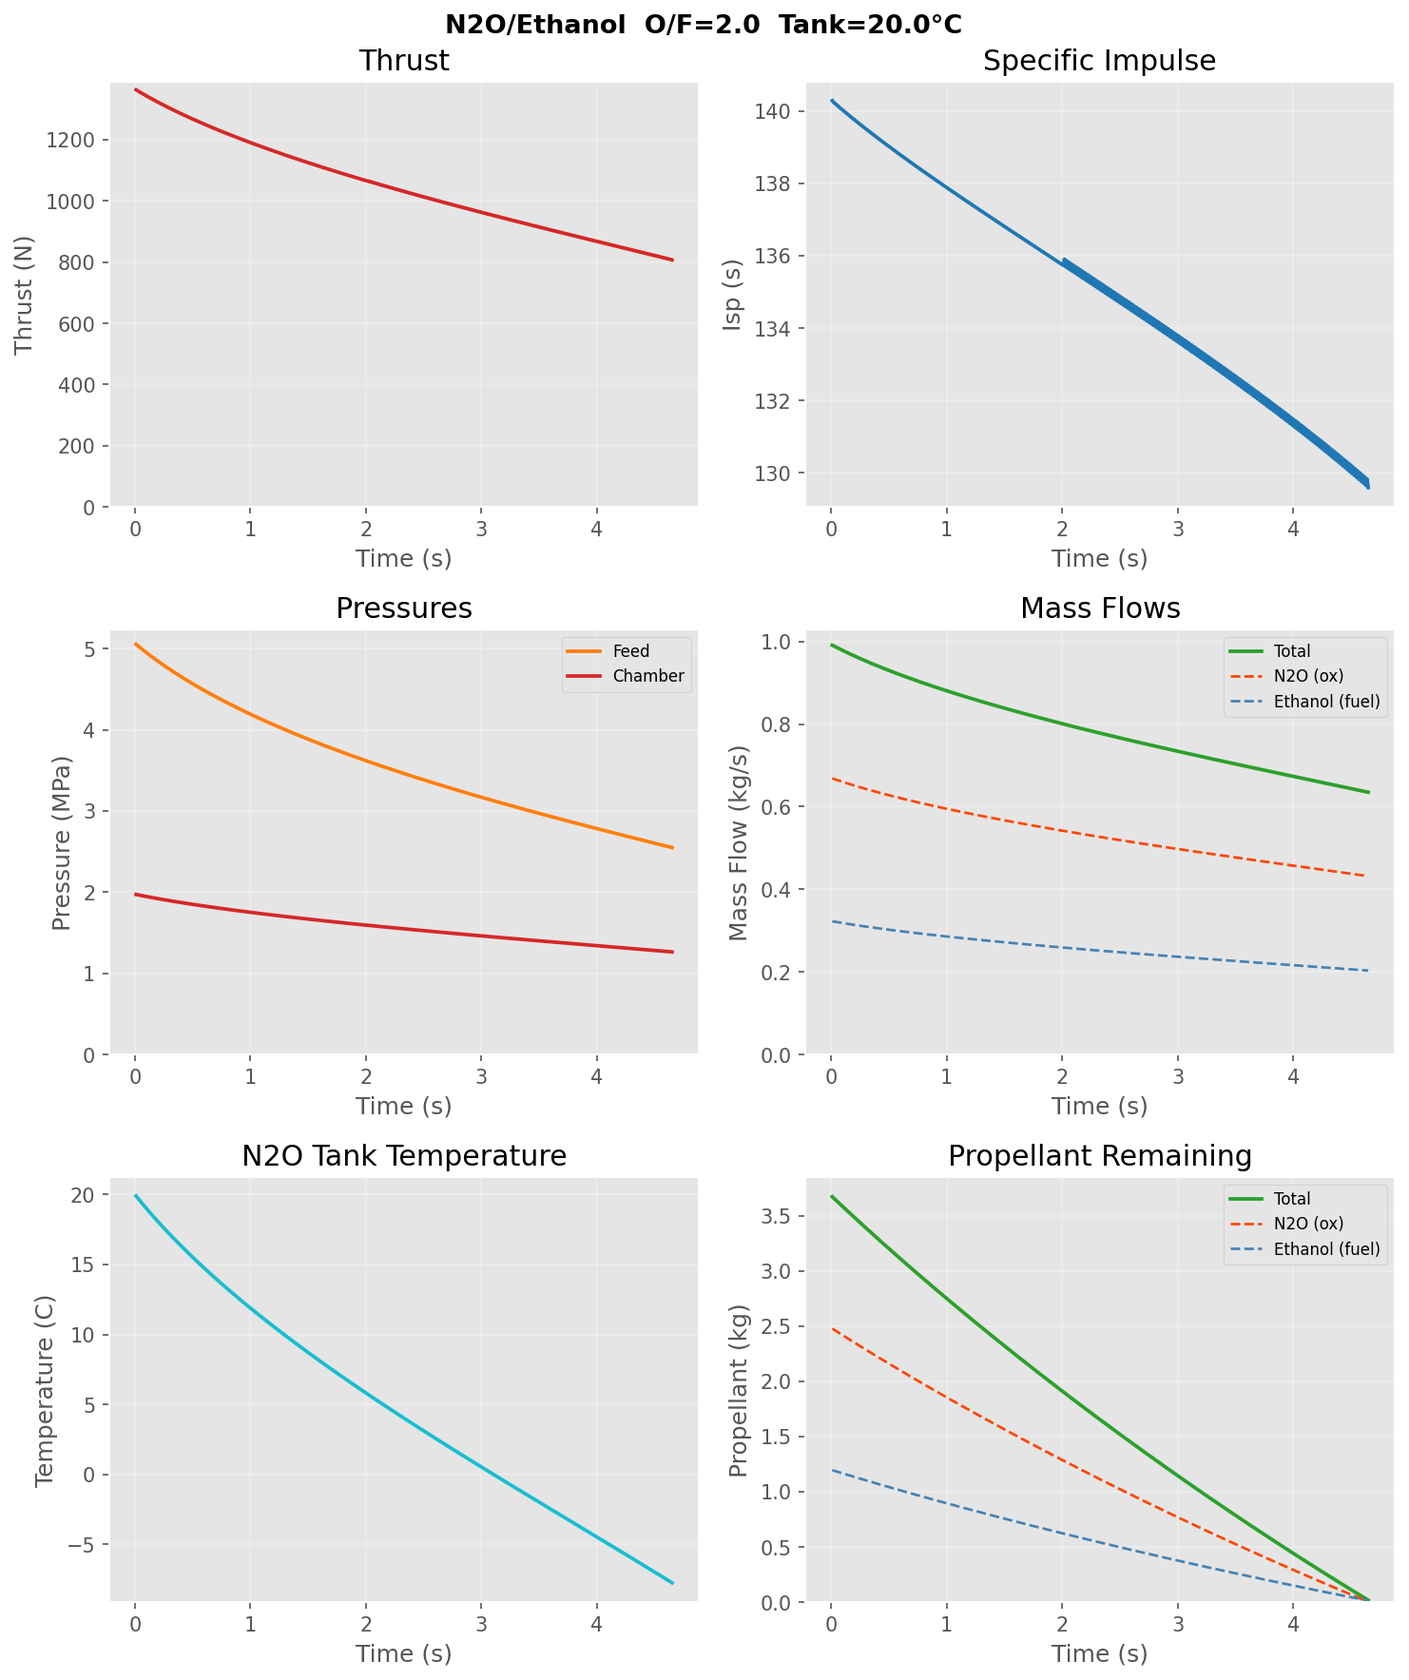
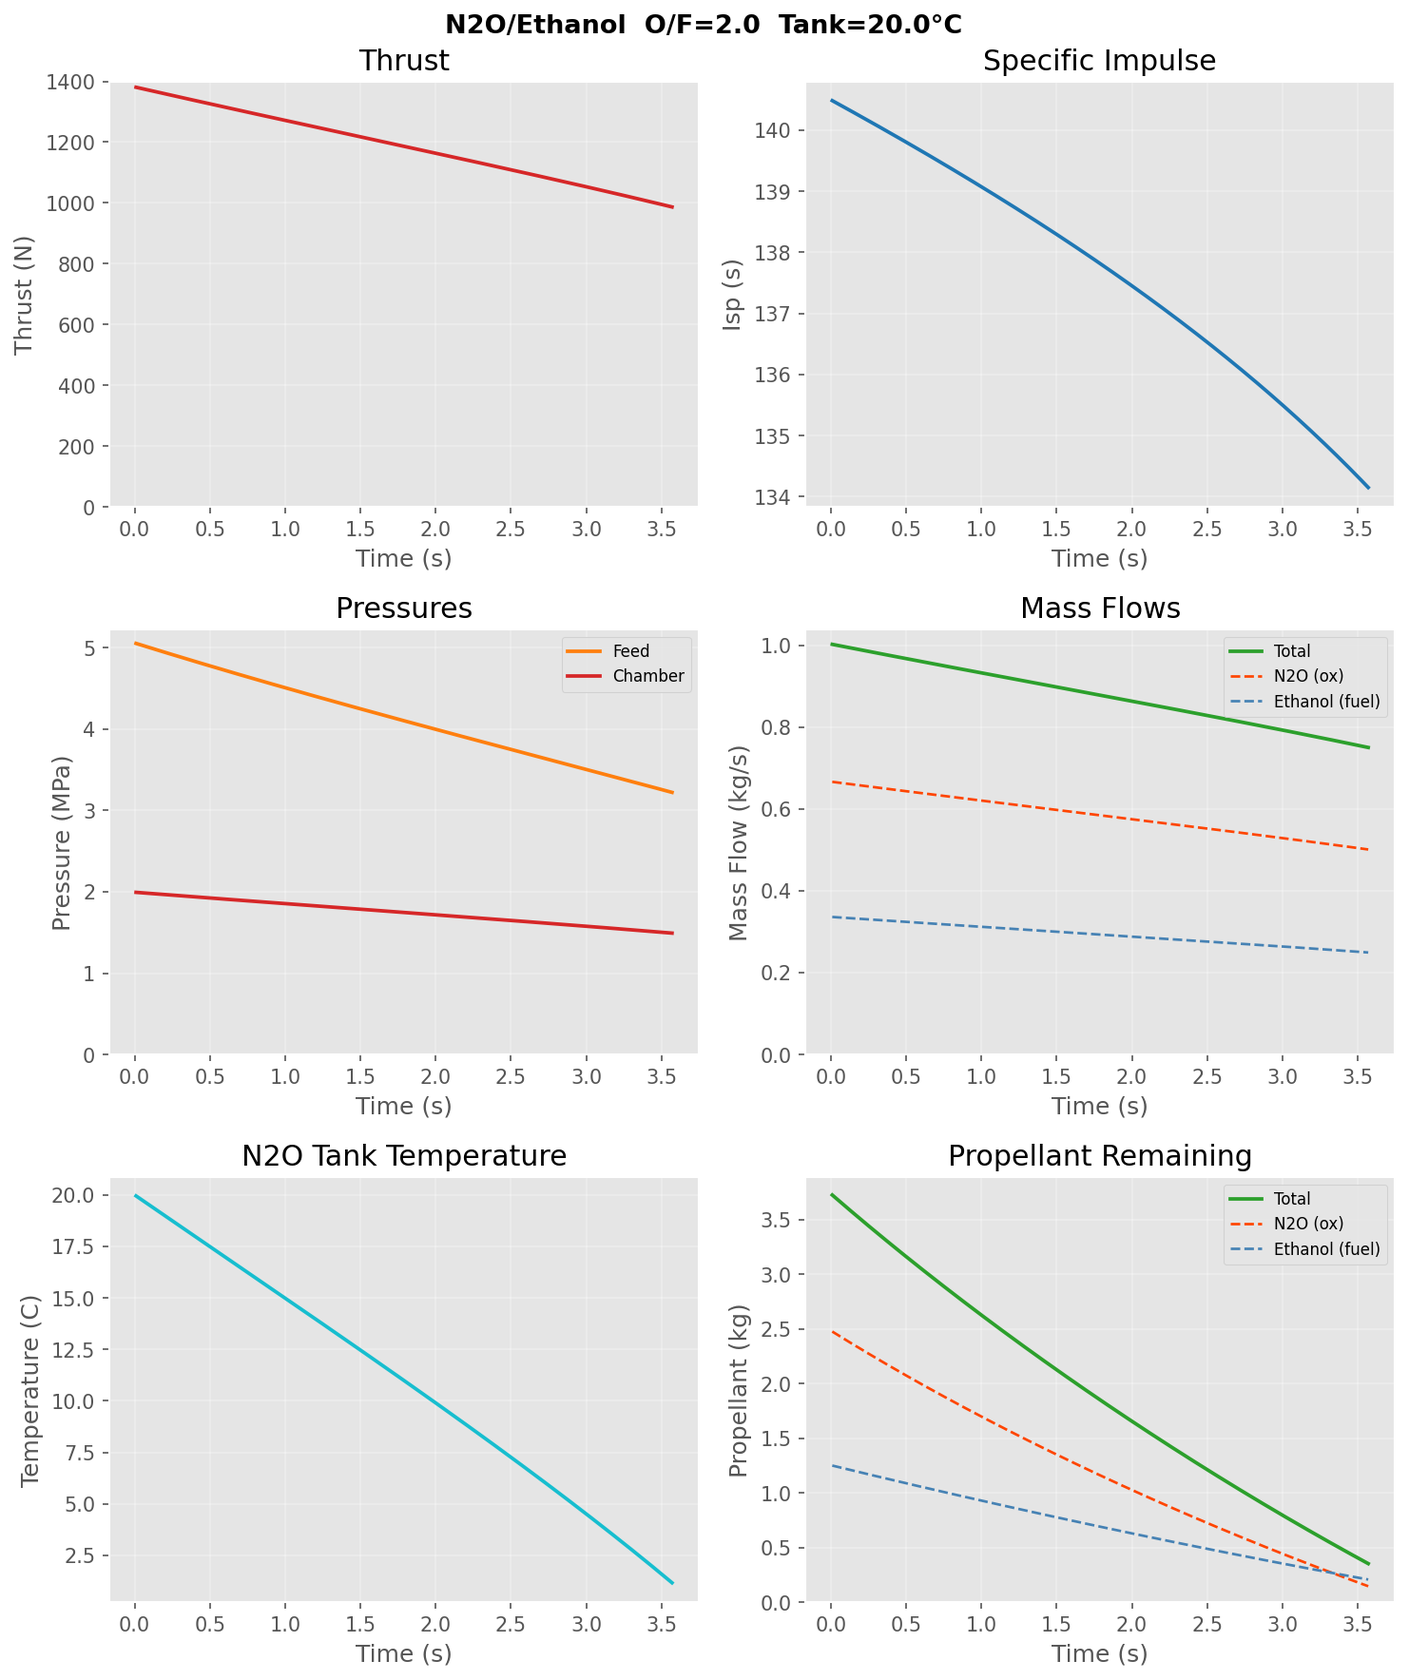
Fixed Isp oscillation, updated gitignore

diff --git a/Simulation/PistonLiquidRocket.py b/Simulation/PistonLiquidRocket.py
@@ -109,10 +109,24 @@ class N2OThermoTable:
             float(np.interp(T, Tv, self.p_sat)),
         )
 
-    def find_T_for_U(self, U_target: float, m_liq: float, volume: float) -> float:
-        V_vap = np.maximum(0.0, volume - m_liq / self.rho_liq)
-        U_arr = m_liq * self.u_liq + self.rho_vap * V_vap * self.u_vap
-        # np.interp clamps to boundary values — prevents out-of-range extrapolation
+    def find_T_for_U(self, U_target: float, M_total: float, volume: float) -> float:
+        """
+        Find T such that total internal energy = U_target.
+        M_total is the total remaining mass (liquid + vapour) in the tank.
+
+        Uses the same two-phase equilibrium split as __init__ — liquid and vapour
+        masses both vary self-consistently with T, so U(T) is guaranteed monotone.
+        Holding m_liq fixed instead (prior approach) made U(T) non-monotone at
+        low liquid mass, causing interpolation artefacts.
+        """
+        # Self-consistent phase split at each table temperature:
+        #   m_liq/rho_liq + m_vap/rho_vap = volume  and  m_liq + m_vap = M_total
+        # → m_liq = (volume - M_total/rho_vap) / (1/rho_liq - 1/rho_vap)
+        denom   = 1.0 / self.rho_liq - 1.0 / self.rho_vap   # → 0 near critical pt
+        safe_d  = np.where(np.abs(denom) > 1e-9, denom, 1e-9)
+        m_liq_a = np.clip((volume - M_total / self.rho_vap) / safe_d, 0.0, M_total)
+        m_vap_a = M_total - m_liq_a
+        U_arr   = m_liq_a * self.u_liq + m_vap_a * self.u_vap
         return float(np.interp(U_target, U_arr, self.T))
 
 
@@ -302,11 +316,11 @@ class EngineConfig:
     # Injector geometry  (A values = None means auto-sized from design O/F and target dP)
     # Cd values match HalfCatSim hardware; areas solved analytically to hit
     # Pc=218.6 psi and O/F=2.77 at 283.15 K N2O with 15 psi piston loss.
-    cd_ox        : float          = 0.40    # discharge coefficient, N2O orifice(s)
-    cd_fuel      : float          = 0.55    # discharge coefficient, fuel orifice(s)
+    cd_ox        : float           = 0.5    # discharge coefficient, N2O orifice(s)
+    cd_fuel      : float           = 0.5    # discharge coefficient, fuel orifice(s)
     A_inj_ox     : Optional[float] = None   # total N2O injector area [m^2]
     A_inj_fuel   : Optional[float] = None   # total fuel injector area [m^2]
-    inj_target_dp: float          = 0.6     # dP/P_feed fraction used for auto-sizing
+    inj_target_dp: float           = 0.6     # dP/P_feed fraction used for auto-sizing
 
     # Oxidiser (N2O) feed line  — pipe geometry + in-line valve
     ox_line_id       : float = 7.94e-3  # inner diameter [m];  0 = no feed-line loss
@@ -316,7 +330,7 @@ class EngineConfig:
     ox_valve_diam    : float = 0.01     # valve bore diameter [m]
 
     # Fuel feed line  — pipe geometry + in-line valve
-    fuel_line_id       : float = 5.715e-3
+    fuel_line_id       : float = 7.94e-3
     fuel_line_length   : float = 1.219
     fuel_line_roughness: float = 1.5e-6
     fuel_valve_Cd      : float = 0.8
@@ -377,6 +391,8 @@ class EngineConfig:
         _fuel_A = np.pi / 4.0 * self.fuel_tank_diam ** 2
         self.ox_tank_length   = self.ox_tank_volume   / _ox_A
         self.fuel_tank_length = self.fuel_tank_volume / _fuel_A
+        # Tube length for liquid N2O only — ullage lives inside the piston, not in the tube
+        self.ox_tube_length   = self.ox_tank_volume * (1.0 - self.ox_ullage) / _ox_A
 
         # Characteristic chamber length L* = V_c / A_t
         # V_c = cylindrical section + frustum of convergent cone
@@ -567,15 +583,21 @@ class N2OSelfPressTank:
             return
         tbl = self._tbl
         _, _, u_liq, u_vap, h_liq, _ = tbl.at(self.T)
-        U_target  = self.m_liq * u_liq + self.m_vap * u_vap - h_liq * dm
-        m_liq_new = self.m_liq - dm
+        U_target = self.m_liq * u_liq + self.m_vap * u_vap - h_liq * dm
+        M_total  = self.m_liq + self.m_vap - dm   # total mass remaining (conserved)
 
-        T_new       = tbl.find_T_for_U(U_target, m_liq_new, self.volume)
+        T_new       = tbl.find_T_for_U(U_target, M_total, self.volume)
         rho_liq_new = float(np.interp(T_new, tbl.T, tbl.rho_liq))
         rho_vap_new = float(np.interp(T_new, tbl.T, tbl.rho_vap))
+        denom_new = 1.0 / rho_liq_new - 1.0 / rho_vap_new
+        if abs(denom_new) > 1e-9:
+            m_liq_new = (self.volume - M_total / rho_vap_new) / denom_new
+        else:
+            m_liq_new = M_total / 2.0   # near critical point
+        m_liq_new  = max(0.0, min(M_total, m_liq_new))
         self.T     = T_new
         self.m_liq = m_liq_new
-        self.m_vap = rho_vap_new * (self.volume - m_liq_new / rho_liq_new)
+        self.m_vap = M_total - m_liq_new
 
 
 # ═══════════════════════════════════════════════════════════════════════════════
@@ -811,7 +833,7 @@ class PistonEngine:
             r = (self._K_ox   * np.sqrt(dp_ox)
                  + self._K_fuel * np.sqrt(dp_fuel)
                  - self._k_mdot * p_c)
-            if abs(r) < 1e-3:
+            if abs(r) < 1e-6:
                 break
             drdp = self._k_mdot
             if dp_ox   > 0: drdp += self._K_ox   * 0.5 / np.sqrt(dp_ox)
@@ -821,7 +843,7 @@ class PistonEngine:
         dp_fuel = max(0.0, p_feed_fuel - p_c)
         r_final = (self._K_ox * np.sqrt(dp_ox) + self._K_fuel * np.sqrt(dp_fuel)
                    - self._k_mdot * p_c)
-        if abs(r_final) >= 1e-2:
+        if abs(r_final) >= 1e-4:
             return None
         self._p_c_prev = p_c
         return float(p_c)
@@ -951,7 +973,7 @@ def print_config(cfg: EngineConfig, eng: PistonEngine):
     print(f"    Piston start         : {L_piston_0*1e3:.0f} mm from ox. bulkhead")
     print(f"    Volume / diameter    : {cfg.ox_tank_volume*1e3:.2f} L  /  {cfg.ox_tank_diam*1e3:.0f} mm"
           f"  (of {cfg.tank_volume*1e3:.2f} L total)")
-    print(f"    Length               : {cfg.ox_tank_length*1e3:.0f} mm")
+    print(f"    Tube length (liquid) : {cfg.ox_tube_length*1e3:.0f} mm  (ullage in piston)")
     print(f"    Thermal model        : adiabatic (T drops as liquid drains)")
     print(f"  {cfg.fuel.name} fuel tank  (piston)")
     print(f"    Density              : {cfg.fuel.liquid_density():.1f} kg/m^3"

diff --git a/Simulation/tank_structural.py b/Simulation/tank_structural.py
@@ -10,6 +10,43 @@ PLOT_DIR = os.path.join(os.path.dirname(os.path.abspath(__file__)),
 P           = 7.03e6    # Internal pressure, Pa
 tank_id     = 95.2e-3   # Tank inner diameter, m
 tank_od     = 101.6e-3  # Tank outer diameter, m
+
+# ── Tank sizing ────────────────────────────────────────────────────────────────
+of_ratio      = 2.0       # Oxidiser/fuel mass ratio
+n2o_fill_rho  = 790.0     # N2O liquid density at fill temperature, kg/m³ (~25°C)
+ipa_rho       = 786.0     # IPA liquid density, kg/m³
+ullage_frac   = 0.05      # Ullage fraction (vapour volume / total ox section volume)
+ullage_d      = 78.0e-3   # Piston ullage cavity diameter, m  (ullage is inside piston)
+V_tank_total  = 5.0e-3    # Total tank volume (ox section incl. ullage + fuel section), m³
+
+# Split total volume into ox section (liquid + ullage) and fuel section.
+# rho_ox_avg weights liquid and vapour by ullage fraction.
+n2o_vap_rho   = 50.0      # N2O vapour density at ~25°C, kg/m³ (approximate)
+rho_ox_avg    = n2o_fill_rho * (1.0 - ullage_frac) + n2o_vap_rho * ullage_frac
+k             = rho_ox_avg / (of_ratio * ipa_rho)   # ox_vol / fuel_vol ratio
+V_ox_section  = V_tank_total / (1.0 + k)             # includes ullage
+V_fuel_section = V_tank_total - V_ox_section
+
+# Liquid volumes and tube lengths — ullage does NOT add to tube length
+V_ox_liq    = V_ox_section  * (1.0 - ullage_frac)
+V_ullage    = V_ox_section  * ullage_frac
+A_bore      = np.pi / 4 * tank_id**2
+L_ox_tube   = V_ox_liq      / A_bore                 # liquid N2O only
+L_fuel_tube = V_fuel_section / A_bore
+
+# Piston ullage cavity depth (78 mm bore inside piston)
+L_piston_ullage = V_ullage / (np.pi / 4 * ullage_d**2)
+
+print("--- Tank Sizing -------------------------------------------------------")
+print(f"N2O fill density     : {n2o_fill_rho:.0f} kg/m^3")
+print(f"Ox section volume    : {V_ox_section*1e3:.3f} L  (liquid {V_ox_liq*1e3:.3f} L  +  ullage {V_ullage*1e6:.0f} cm^3)")
+print(f"Fuel section volume  : {V_fuel_section*1e3:.3f} L")
+print(f"Ox tube length       : {L_ox_tube*1e3:.1f} mm  (liquid only, ullage in piston)")
+print(f"Fuel tube length     : {L_fuel_tube*1e3:.1f} mm")
+print(f"Ox/fuel tube ratio   : {L_ox_tube/L_fuel_tube:.3f}")
+print(f"Piston ullage cavity : {L_piston_ullage*1e3:.1f} mm deep x {ullage_d*1e3:.0f} mm dia")
+print("----------------------------------------------------------------------")
+print()
 n_bolts     = 8         # Number of radial retaining bolts
 bolt_d      = 8.0e-3    # Bolt major diameter (bearing, shear), m
 hole_d      = 9.0e-3    # Clearance hole diameter (tearout, net section), m
@@ -70,7 +107,7 @@ print(f"  Bolt shear SF      : {SF_shear_actual:.2f}  ({'OK' if SF_shear_actual 
 print(f"  Net section SF     : {SF_net_actual:.2f}  ({'OK' if SF_net_actual >= SF else 'FAIL'})  (VM={sigma_vm_net*1e-6:.1f} MPa, axial={sigma_net*1e-6:.1f}, hoop={sigma_hoop*1e-6:.1f})")
 print(f"  Bearing SF         : {SF_bearing_actual:.2f}  ({'OK' if SF_bearing_actual >= SF else 'FAIL'})  (sigma={sigma_bearing*1e-6:.1f} MPa)")
 
-# ── Plot ───────────────────────────────────────────────────────────────────────
+# ── Plot ----------------------------------------------------------------------─
 plt.figure()
 plt.title("Radial Bolt Tearout vs Axial Edge Distance")
 plt.plot(es * 1e3, F_tearout, label="Wall tearout strength", color='tab:blue', lw=2)

diff --git a/Documentation Vault/02-Design/01-Propulsion System/02-Propellant Tank.md b/Documentation Vault/02-Design/01-Propulsion System/02-Propellant Tank.md
@@ -33,23 +33,23 @@ A 101.6 mm OD × 3.2 mm wall tube is standard 4" aluminium stock — no machinin
 
 ### Bolt Retention
 
-The bulkhead is retained by **10× M6 Grade 12.9** radial bolts through the tank wall. Clearance hole Ø6.6 mm, axial edge distance e = 12 mm.
+The bulkhead is retained by **8× M8 Grade 12.9** radial bolts through the tank wall. Clearance hole Ø9.0 mm, axial edge distance e = 14 mm.
 
 Material properties: τ_Y = σ_Y/√3 = 159.4 MPa (wall shear yield), σ_{br,Y} = 386 MPa (bearing yield, ≈1.4 × σ_Y per MIL-HDBK-5), σ_{Y,bolt} = 1080 MPa.
 
 Total axial pressure load and load per bolt:
 
-$$F = \frac{\pi}{4} D_i^2 P = \frac{\pi}{4}(95.2)^2 \times 7.03 = 50{,}040\ \text{N}, \qquad F_{bolt} = \frac{F}{N} = \frac{50{,}040}{10} = 5{,}004\ \text{N}$$
+$$F = \frac{\pi}{4} D_i^2 P = \frac{\pi}{4}(95.2)^2 \times 7.03 = 50{,}040\ \text{N}, \qquad F_{bolt} = \frac{F}{N} = \frac{50{,}040}{8} = 6{,}255\ \text{N}$$
 
 #### Tearout
 
 Shear-out of tank wall axially past the bolt hole (two shear planes per bolt):
 
-$$F_{tearout} = \tau_Y \cdot 2t \left(e - \frac{d_h}{2}\right) = 159.4 \times 2(3.2)\left(12 - 3.3\right) = 8{,}862\ \text{N}$$
+$$F_{tearout} = \tau_Y \cdot 2t \left(e - \frac{d_h}{2}\right) = 159.4 \times 2(3.2)\left(14 - 4.5\right) = 9{,}689\ \text{N}$$
 
-$$SF_{tearout} = \frac{F_{tearout}}{F_{bolt}} = \frac{8{,}862}{5{,}004} = \mathbf{1.77 \ ✓}$$
+$$SF_{tearout} = \frac{F_{tearout}}{F_{bolt}} = \frac{9{,}689}{6{,}255} = \mathbf{1.55 \ ✓}$$
 
-Minimum edge distance at SF = 1.5: $e_{min} = d_h/2 + F_{bolt} \cdot SF\,/\,(2t\tau_Y) = 10.7\ \text{mm}$
+Minimum edge distance at SF = 1.5: $e_{min} = d_h/2 + F_{bolt} \cdot SF\,/\,(2t\tau_Y) = 13.7\ \text{mm}$
 
 ![[bolt_tearout.png]]
 
@@ -57,49 +57,53 @@ Minimum edge distance at SF = 1.5: $e_{min} = d_h/2 + F_{bolt} \cdot SF\,/\,(2t\
 
 Single shear across bolt cross-section at the inner wall surface:
 
-$$F_{shear} = \frac{\sigma_{Y,bolt}}{\sqrt{3}} \cdot \frac{\pi}{4} d^2 = 623.5 \times \frac{\pi}{4}(6)^2 = 17{,}639\ \text{N}$$
+$$F_{shear} = \frac{\sigma_{Y,bolt}}{\sqrt{3}} \cdot \frac{\pi}{4} d^2 = 623.5 \times \frac{\pi}{4}(8)^2 = 31{,}344\ \text{N}$$
 
-$$SF_{shear} = \frac{17{,}639}{5{,}004} = \mathbf{3.52 \ ✓}$$
+$$SF_{shear} = \frac{31{,}344}{6{,}255} = \mathbf{5.01 \ ✓}$$
 
 #### Net Section Tensile Failure
 
 Tensile failure of the tank wall between bolt holes. The bolt holes reduce the net cross-sectional area at the failure plane (mean circumference π(Do − t)). Hoop stress from internal pressure acts simultaneously and is combined via Von Mises.
 
-$$\sigma_{axial} = \frac{\frac{\pi}{4} D_i^2 P}{\left[\pi(D_o - t) - N d_h\right] t} = \frac{50{,}040}{\left[\pi(98.4) - 10(6.6)\right] \times 3.2} = 64.3\ \text{MPa}$$
+$$\sigma_{axial} = \frac{\frac{\pi}{4} D_i^2 P}{\left[\pi(D_o - t) - N d_h\right] t} = \frac{50{,}040}{\left[\pi(98.4) - 8(9.0)\right] \times 3.2} = 65.9\ \text{MPa}$$
 
 $$\sigma_{hoop} = \frac{P \cdot D_i/2}{t} = \frac{7.03 \times 47.6}{3.2} = 104.6\ \text{MPa}$$
 
-$$\sigma_{VM} = \sqrt{\sigma_{axial}^2 + \sigma_{hoop}^2 - \sigma_{axial}\,\sigma_{hoop}} = 91.4\ \text{MPa}$$
+$$\sigma_{VM} = \sqrt{\sigma_{axial}^2 + \sigma_{hoop}^2 - \sigma_{axial}\,\sigma_{hoop}} = 91.6\ \text{MPa}$$
 
-$$SF_{net} = \frac{\sigma_Y}{\sigma_{VM}} = \frac{276}{91.4} = \mathbf{3.02 \ ✓}$$
+$$SF_{net} = \frac{\sigma_Y}{\sigma_{VM}} = \frac{276}{91.6} = \mathbf{3.01 \ ✓}$$
 
 #### Bearing Failure
 
 Compressive crushing of tank wall material at the bolt hole edge:
 
-$$\sigma_{bearing} = \frac{F_{bolt}}{d \cdot t} = \frac{5{,}004}{6.0 \times 3.2} = 260.6\ \text{MPa}$$
+$$\sigma_{bearing} = \frac{F_{bolt}}{d \cdot t} = \frac{6{,}255}{8.0 \times 3.2} = 244.3\ \text{MPa}$$
 
-$$SF_{bearing} = \frac{\sigma_{br,Y}}{\sigma_{bearing}} = \frac{386}{260.6} = \mathbf{1.48}$$
-
-Bearing is the critical failure mode (SF = 1.48 < 1.5 target). This is accepted on the same basis as Half Cat: N₂O saturation physics prevent tank pressure from reaching 7.03 MPa unless the tank exceeds 35°C, which is not possible under normal launch conditions. Actual operating pressure is substantially lower.
+$$SF_{bearing} = \frac{\sigma_{br,Y}}{\sigma_{bearing}} = \frac{386}{244.3} = \mathbf{1.58 \ ✓}$$
 
 #### Summary
 
-| Failure mode | SF   | Status     |
-| ------------ | ---- | ---------- |
-| Tank burst   | 2.86 | ✓          |
-| Tearout      | 1.77 | ✓          |
-| Bolt shear   | 3.52 | ✓          |
-| Net section  | 3.02 | ✓          |
-| Bearing      | 1.48 | Acceptable |
+| Failure mode | SF   | Status |
+| ------------ | ---- | ------ |
+| Tank burst   | 2.86 | ✓      |
+| Tearout      | 1.55 | ✓      |
+| Bolt shear   | 5.01 | ✓      |
+| Net section  | 3.01 | ✓      |
+| Bearing      | 1.58 | ✓      |
 
 ## Sealing
 
+From [Marco Rubber](https://www.marcorubber.com/o-ring-groove-design-considerations.htm):
+
+Squeeze/compression: 18-25% (male/female static), 10-20% (reciprocating)
+Stretch: 0-5%
+Gland fill: 75% nominal
+
+Extrusion gap (in inches):
+![[O-ring Extrusion.png]]
 ### Bulkheads
 ![[O-ring Bulkhead.png]]
 
 ### Piston
-
 ![[O-ring Piston.png]]
 
-### Threaded Connections

diff --git a/Documentation Vault/02-Design/01-Propulsion System/01-Propulsion System Overview.md b/Documentation Vault/02-Design/01-Propulsion System/01-Propulsion System Overview.md
@@ -59,14 +59,19 @@ Chamber dimensions were copied from Half Cat, given that chamber sizing is typic
 ### Components
 #### Tanks
 The tank is a "piston style" tank that is the same as Half Cat's design, where the vapor pressure of the N2O pushes along a piston to expel the fuel. From the Half Cat Mojave Sphinx Guidebook:
-![[Pasted image 20260610212356.png]]
+![[MS Propellant Tank.png]]
 #### Regulators
 No regulators are used - instead the main valves are set to open at a point between the operating pressure and the burst pressure of the tank, in the case of an extremely hot day or radiative heating of the tank resulting in it being heated to greater than 35 degrees C.
 #### Valves
-1/4" BSP 304 stainless full port ball valve, 1000 psi - [Pacific Fittings](https://www.camlockfittings.com.au/2-piece-ball-valves-ss304.html)
+1/4" NPT brass full port ball valve, 1000 psi - [Aircraft Spruce]([https://www.camlockfittings.com.au/2-piece-ball-valves-ss304.html](https://www.aircraftspruce.com.au/catalog/appages/highpressurevalve.php))
 Use 3d print with [DS3225 servo - Amazon](https://www.amazon.com.au/AKLOSIPY-DS3225MG-Digital-Servo-Multiple/dp/B0FX16CGW4?source=ps-sl-shoppingads-lpcontext&psc=1&smid=A1VAS17HV99LTB) to convert to servo valve for ox fill valve, main ox valve and main fuel valve.
-#### Plumbing
-As shown in [[#Fluid System Architecture]], there is plumbing required for oxidiser and fuel lines. Half Cat's use of braided PTFE flex lines is adopted, along with their sizes of AN6 (7/16" OD) line for the oxidiser and AN5 (3/8" OD) line for the fuel.
+#### Plumbing (Hose + Fittings)
+Half Cat's use of braided PTFE flex lines for hose is adopted. [AN6 (7/16" OD) line](https://www.efisolutions.com.au/200-series-ptfe-teflon-braided-stainless-steel-hos~50095) from EFI solutions is used (AN5 would be used for the fuel if not for its unavailability from EFI Solutions).
+
+For generic fittings, [Pirtek](https://www.pirtek.com.au/products/hydraulic/adaptors) is used.
+
+For the AN fittings connecting to flex line, EFI solutions is used.
+
 
 ## Analysis
 The simulation models a piston-fed N2O + liquid fuel rocket where a two-phase N2O tank self-pressurises and drives a piston to expel fuel. At each timestep it computes propellant mass flow rates through injector orifices (using incompressible orifice flow), calls rocketCEA to get ideal combustion properties (T0, γ, MW, c*), applies combustion efficiency to get actual c*, then solves the chamber pressure from c* = Pc·At/ṁ. Thrust and Isp follow from the nozzle expansion, and the N2O tank state evolves via an adiabatic energy balance accounting for liquid/vapour phase change.
@@ -94,7 +99,7 @@ Results:
 - N2O pressure drop: 6.308 -> 3.078 MPa
 
 Cold day (10C):
-![[engine_simulation_10C 1.png]]
+![[engine_simulation_10C.png]]
 Results:
 - Burn time: 3.200 s
 - Average / peak thrust: 1587.0 N / 2114.8 N

diff --git a/Documentation Vault/02-Design/01-Propulsion System/04-Thrust Chamber.md b/Documentation Vault/02-Design/01-Propulsion System/04-Thrust Chamber.md
@@ -1,0 +1,19 @@
+# Injector
+The injector used is a simple scrintle injector. This sprays the central oxidiser flow axially onto the underside of a bolt head, which redirects it radially to impinge on the axial fuel flow from holes at a larger diameter. A steel spacer is used between the injector face and screw head.
+
+Screw: https://www.amazon.com.au/uxcell-M6x20mm-Slotted-Screws-Stainless/dp/B0CWL8S9KT
+
+For injector sizing, areas were calculated to target a 
+# Structural Calculations
+
+# Sealing
+
+## Injector/Combustion Chamber
+
+![[O-ring Injector.png]]
+
+## Combustion Chamber/Nozzle
+
+Using Half Cat's concept of a graphite flange seal, [KLINGER's PSM graphite laminate](https://www.klinger.com.au/products/jointing-gasket-materials/graphite-laminates/klinger-graphite-laminate-psm/) was chosen for being rated to high temperatures (450 C) and sufficient pressure for the chamber (rated to 80 bar).
+
+Calculation for required torqueing of bolts for sufficient gasket compression:

diff --git a/Documentation Vault/02-Design/01-Propulsion System/03-Fluid System.md b/Documentation Vault/02-Design/01-Propulsion System/03-Fluid System.md
@@ -1,0 +1,9 @@
+# Oxidiser
+
+- Bulkhead: 
+- Nipple: 
+- Main valve: 
+
+# Fuel
+
+# Main
